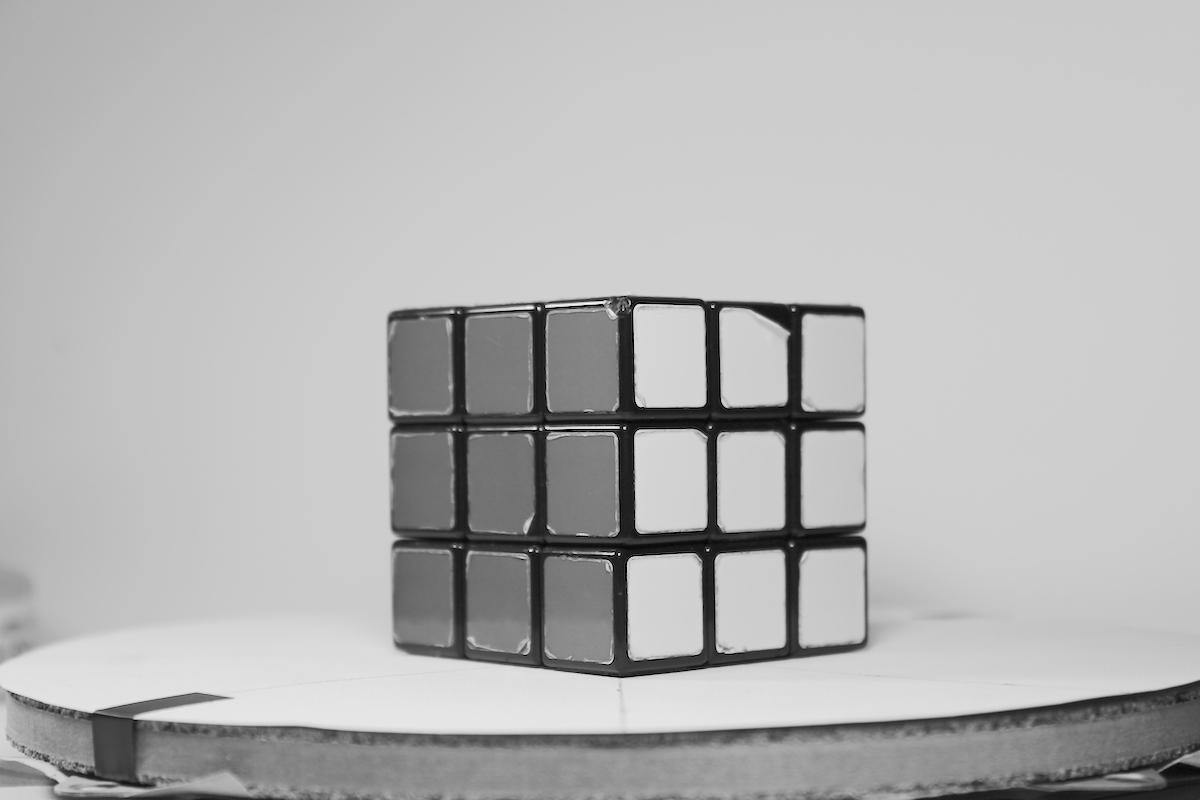
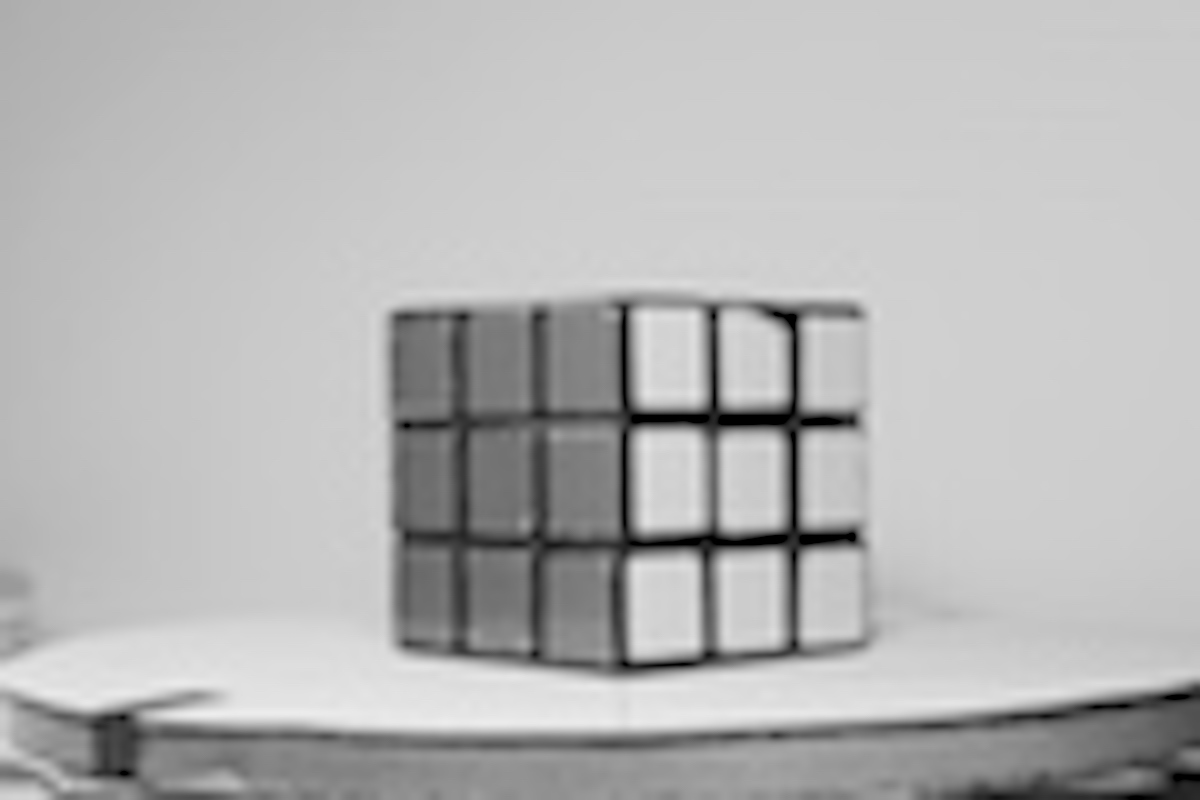
added squarerender file that can render pictures from numpy array

diff --git a/code/squareRender.py b/code/squareRender.py
@@ -1,0 +1,13 @@
+import numpy
+from PIL import Image
+from mayavi import mlab
+from scipy import misc
+
+
+""" Use imshow to visualize a 2D 10x10 random array.
+"""
+img = Image.open("../images/left1.JPG").convert("L")
+#img = misc.imread('left1.JPG')
+imgarr = numpy.array(img) 
+
+mlab.imshow(imgarr)
